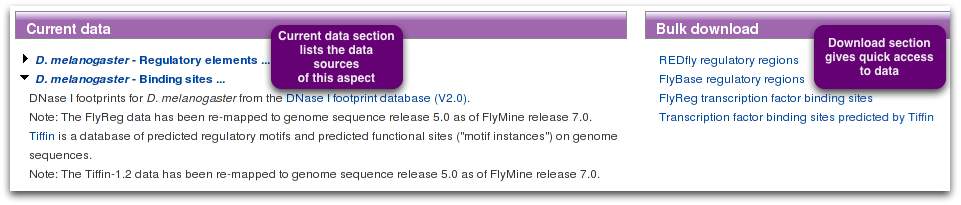
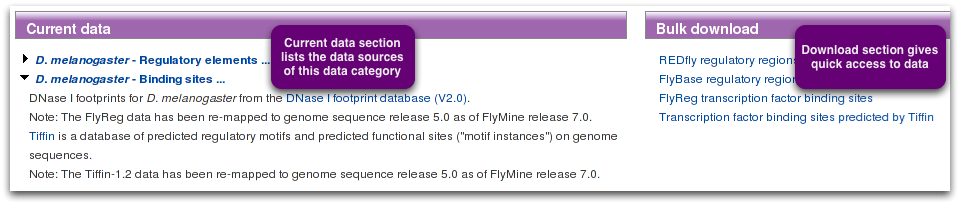
updates to help pages
Former-commit-id: eb586a26758f31138c484dbbd7f607f1522cb364

Changed region(s): [[0.8117, 0.1171, 0.999, 0.4683], [0.281, 0.1171, 0.437, 0.4683]]

diff --git a/www/flymine/site/whatcanidoonthispage/whatcanido.html b/www/flymine/site/whatcanidoonthispage/whatcanido.html
@@ -14,7 +14,6 @@
 <ul class="tabset_tabs">
    <li><a href="#basics" class="active">The basics</a></li>
    <li><a href="#searching">Searching Templates</a></li>
-   <li><a href="#running">Running Templates</a></li>
 
 </ul>
 
@@ -34,29 +33,13 @@ minutes - so if you have a suggestion, let us know.</p>
 
 <p> You can search templates by keywords (eg gene, orthologue, FlyAtlas). By default, templates from all data categories will be searched. Optionally, you can restrict your search to a certain data type. If you are logged in, public templates as well as your own templates will be searched, by default.</p>
 
-<img alt="[Templates]"  src="templates_search2.png"/>
+<img alt="[Templates]"  src="templates_search.png"/>
 
 <p> In the example below, only 'My templates' will be searched (not the public ones), and only templates that I have marked as 'My Favourites'. </p>
 
 <img alt="[Templates]"  src="templates_filter.png"/>
 
 </div>
-
-
-<div id="running" class="tabset_content"><h2 class="tabset_label">Running Templates</h2>
-
-<p> Templates provide a simple form to an underlying predefined query in which one or more variables need to be specified. As an example the template Gene + Transcription factor --> Gene + binding sites + transcription factor is shown below.</p>
-
-<img alt="[Templates]"  src="templates_run.png"/>
-
-
-</div>
-
-
-
-
-
-
 
 
 <h1 id="bag">Lists</h1>
@@ -73,10 +56,10 @@ minutes - so if you have a suggestion, let us know.</p>
 
 <p>FlyMine can operate on lists of data.  Lists can then be analysed
 on a list analysis page, or can be used in (template) queries. The
-Upload page allows you to create a list from an external source. The
-list can contain a mix of identifier types (eg symbols, names,
-organism database id,) but it cannot contain different object types
-(eg a list of genes and proteins is currently not possible).</p>
+Upload page allows you to create a list. The list can contain a mix of
+identifier types (eg symbols, names, organism database id,) but it
+cannot contain different object types (eg a list of genes and proteins
+is currently not possible).</p>
 
 <p>To create a list, follow these steps:</p> 
 
@@ -105,12 +88,19 @@ on a List name will show the List analysis page for this list. We can
 add new public lists at any time - it only takes a few minutes - so if
 you have a suggestion, let us know.</p>
 
-<img alt="[Lists]"  src="xxxx.png"/>
+<img alt="[Lists]"  src="lists_view.png"/>
 
 <p>You can merge, subtract and find common members if you
 have more than one list.</p>
 
-<img alt="[Lists]"  src="xxxx.png"/>
+
+<p><i>As an example, an interszection of 2 lists is shown:</i></p>
+
+
+<img alt="[Lists]"  src="lists_view_intersect.png"/>
+
+
+
 
 </div>
 
@@ -135,6 +125,16 @@ have more than one list.</p>
 
 <div id="basics" class="tabset_content"><h2 class="tabset_label">The basics</h2>
 
+<p> The data page gives an overview of all the data in FlyMine as well
+as their source. To have a better overview, FlyMine groups data
+together in 'data categories'. The icons (or their title) will bring
+you to the corresponding data category page, where you can run a
+predefined template query, build your own query (see below), and have
+access to bulk download. Certain template queries, as well as the
+QueryBuilder itself, allow you to perform searches that span more than
+one data category.</p>
+
+
 </div>
 
 
@@ -151,7 +151,7 @@ have more than one list.</p>
 
 
 
-<h1 id="aspect">Aspect Page</h1>
+<h1 id="aspect">Data Category Page</h1>
 
 <ul class="tabset_tabs">
    <li><a href="#basics" class="active">The basics</a></li>
@@ -161,12 +161,12 @@ have more than one list.</p>
 
 
 <p>The FlyMine website presents the principle data types grouped
-together as different 'aspects', such as protein interactions or gene
+together as different 'data categories', such as protein interactions or gene
 expression.</p>
 
-<p><i>As an example, the transcriptional regulation aspect is shown.</i></p>
+<p><i>As an example, 'the transcriptional regulation' category is shown.</i></p>
 
-<p> Each aspect page lists:</p>
+<p> Each data category page lists:</p>
 
     <p>1. <b>Current data</b> - background information on the origin of particular source datasets</p>
     <p>2. <b>Bulk download</b> - access to convenient derivative bulk datasets for browsing or export in standard format:</p>
@@ -202,9 +202,8 @@ for sequence features.</p>
 
 <p>All report pages have the same basic structure: The top part
 provides <b>summary information</b> for every object, whereas the lower part,
-<b>Other details by aspect</b> has more detailed information divided into
-aspects. The aspects correspond to categories of data shown on the
-FlyMine homepage.</p>
+<b>Further Information by category</b> has more detailed information
+divided into different data types or categories</p>
 
 <p><i>As an example the report page for the </i>even-skipped<i> gene is shown.</i></p>
 
